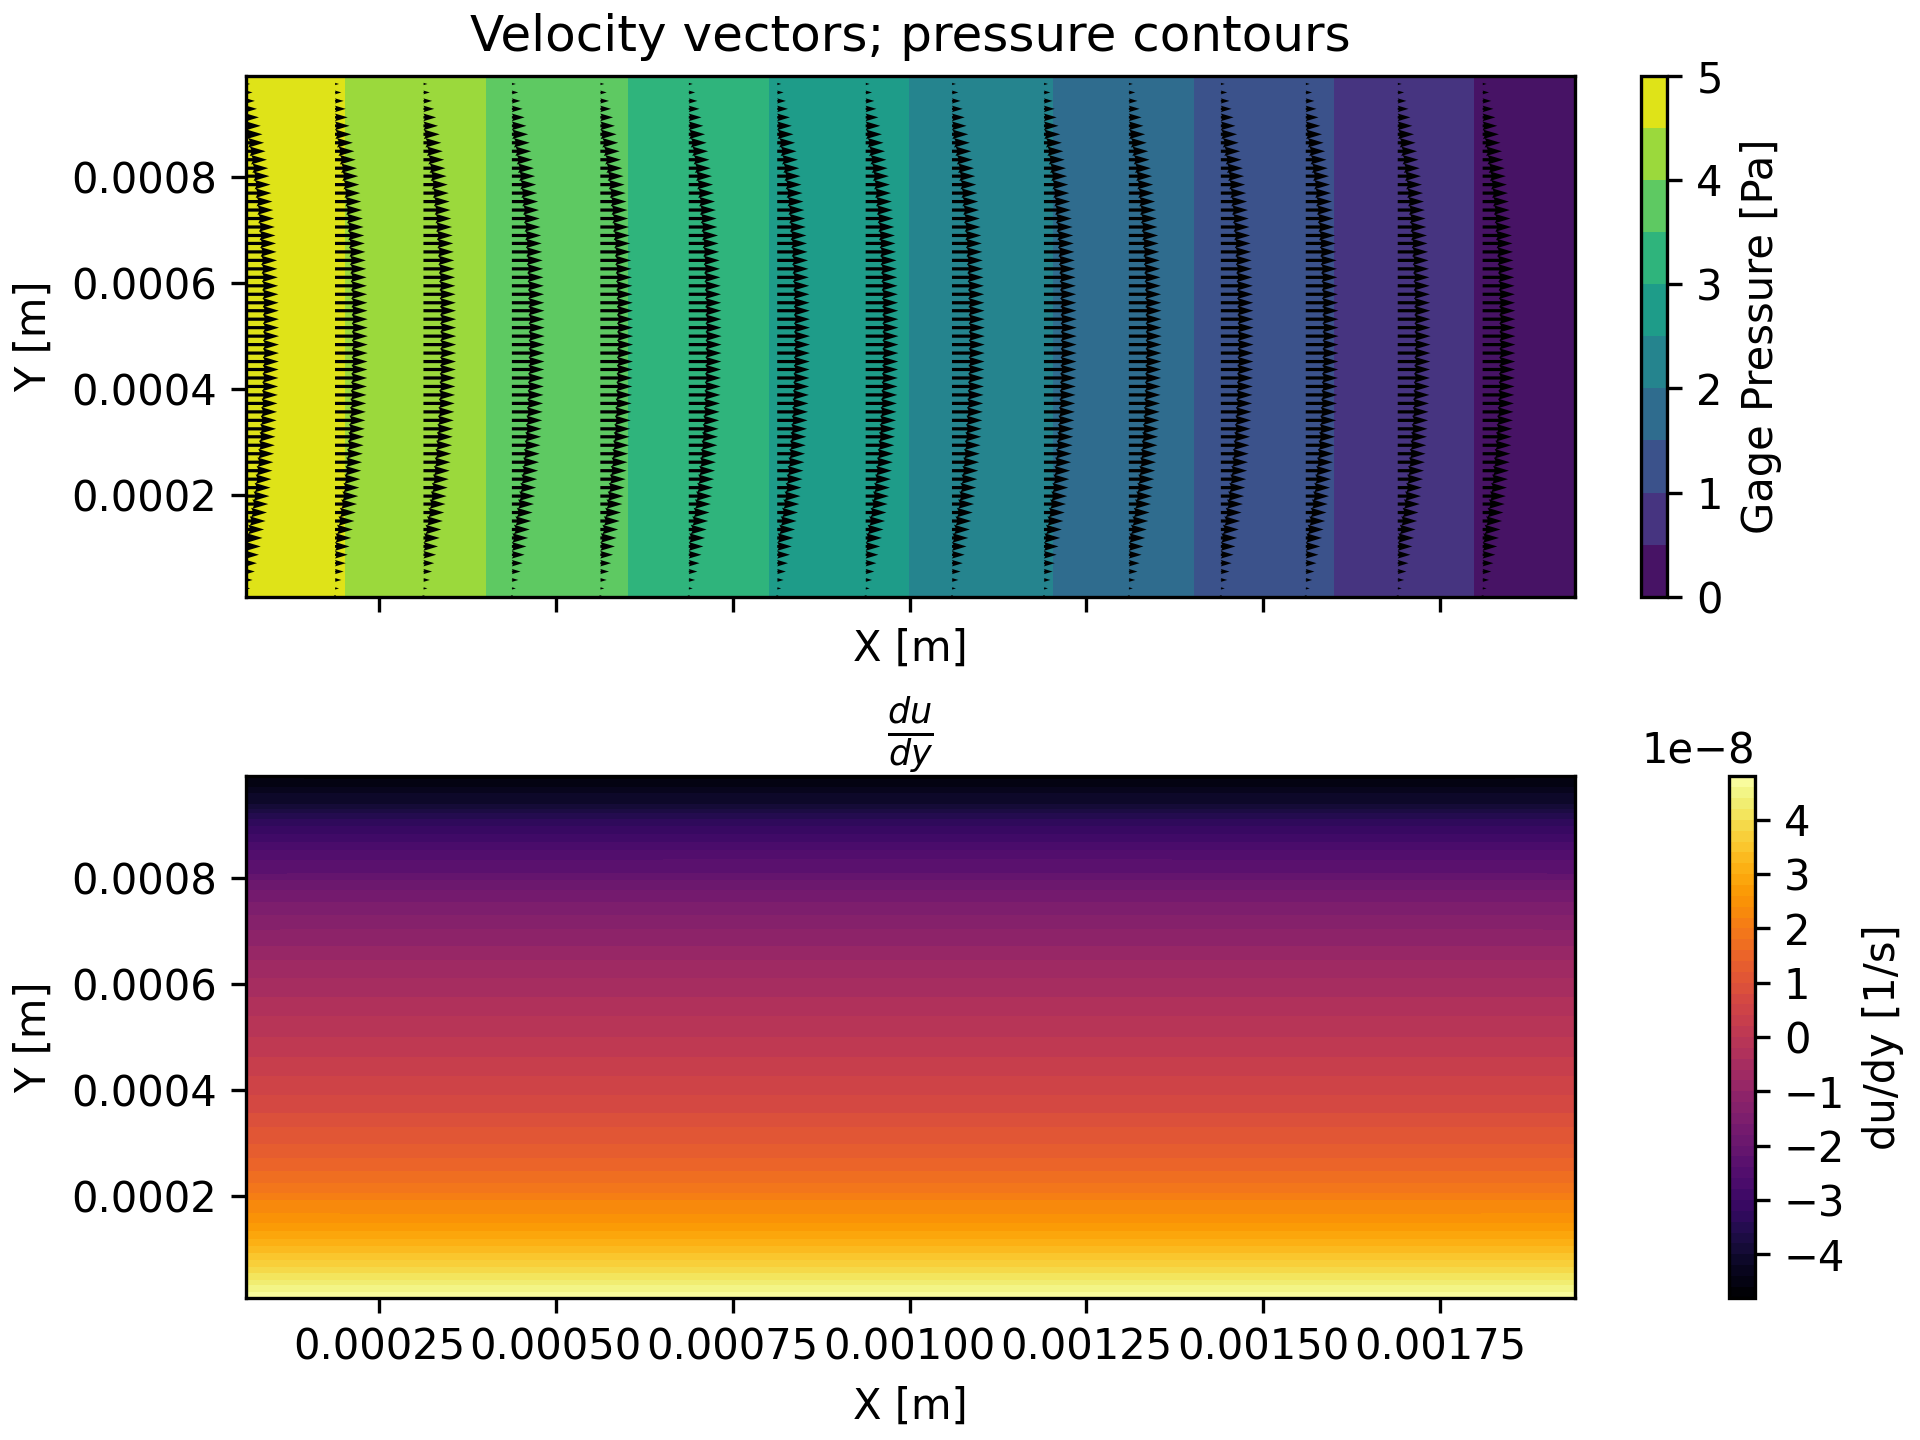
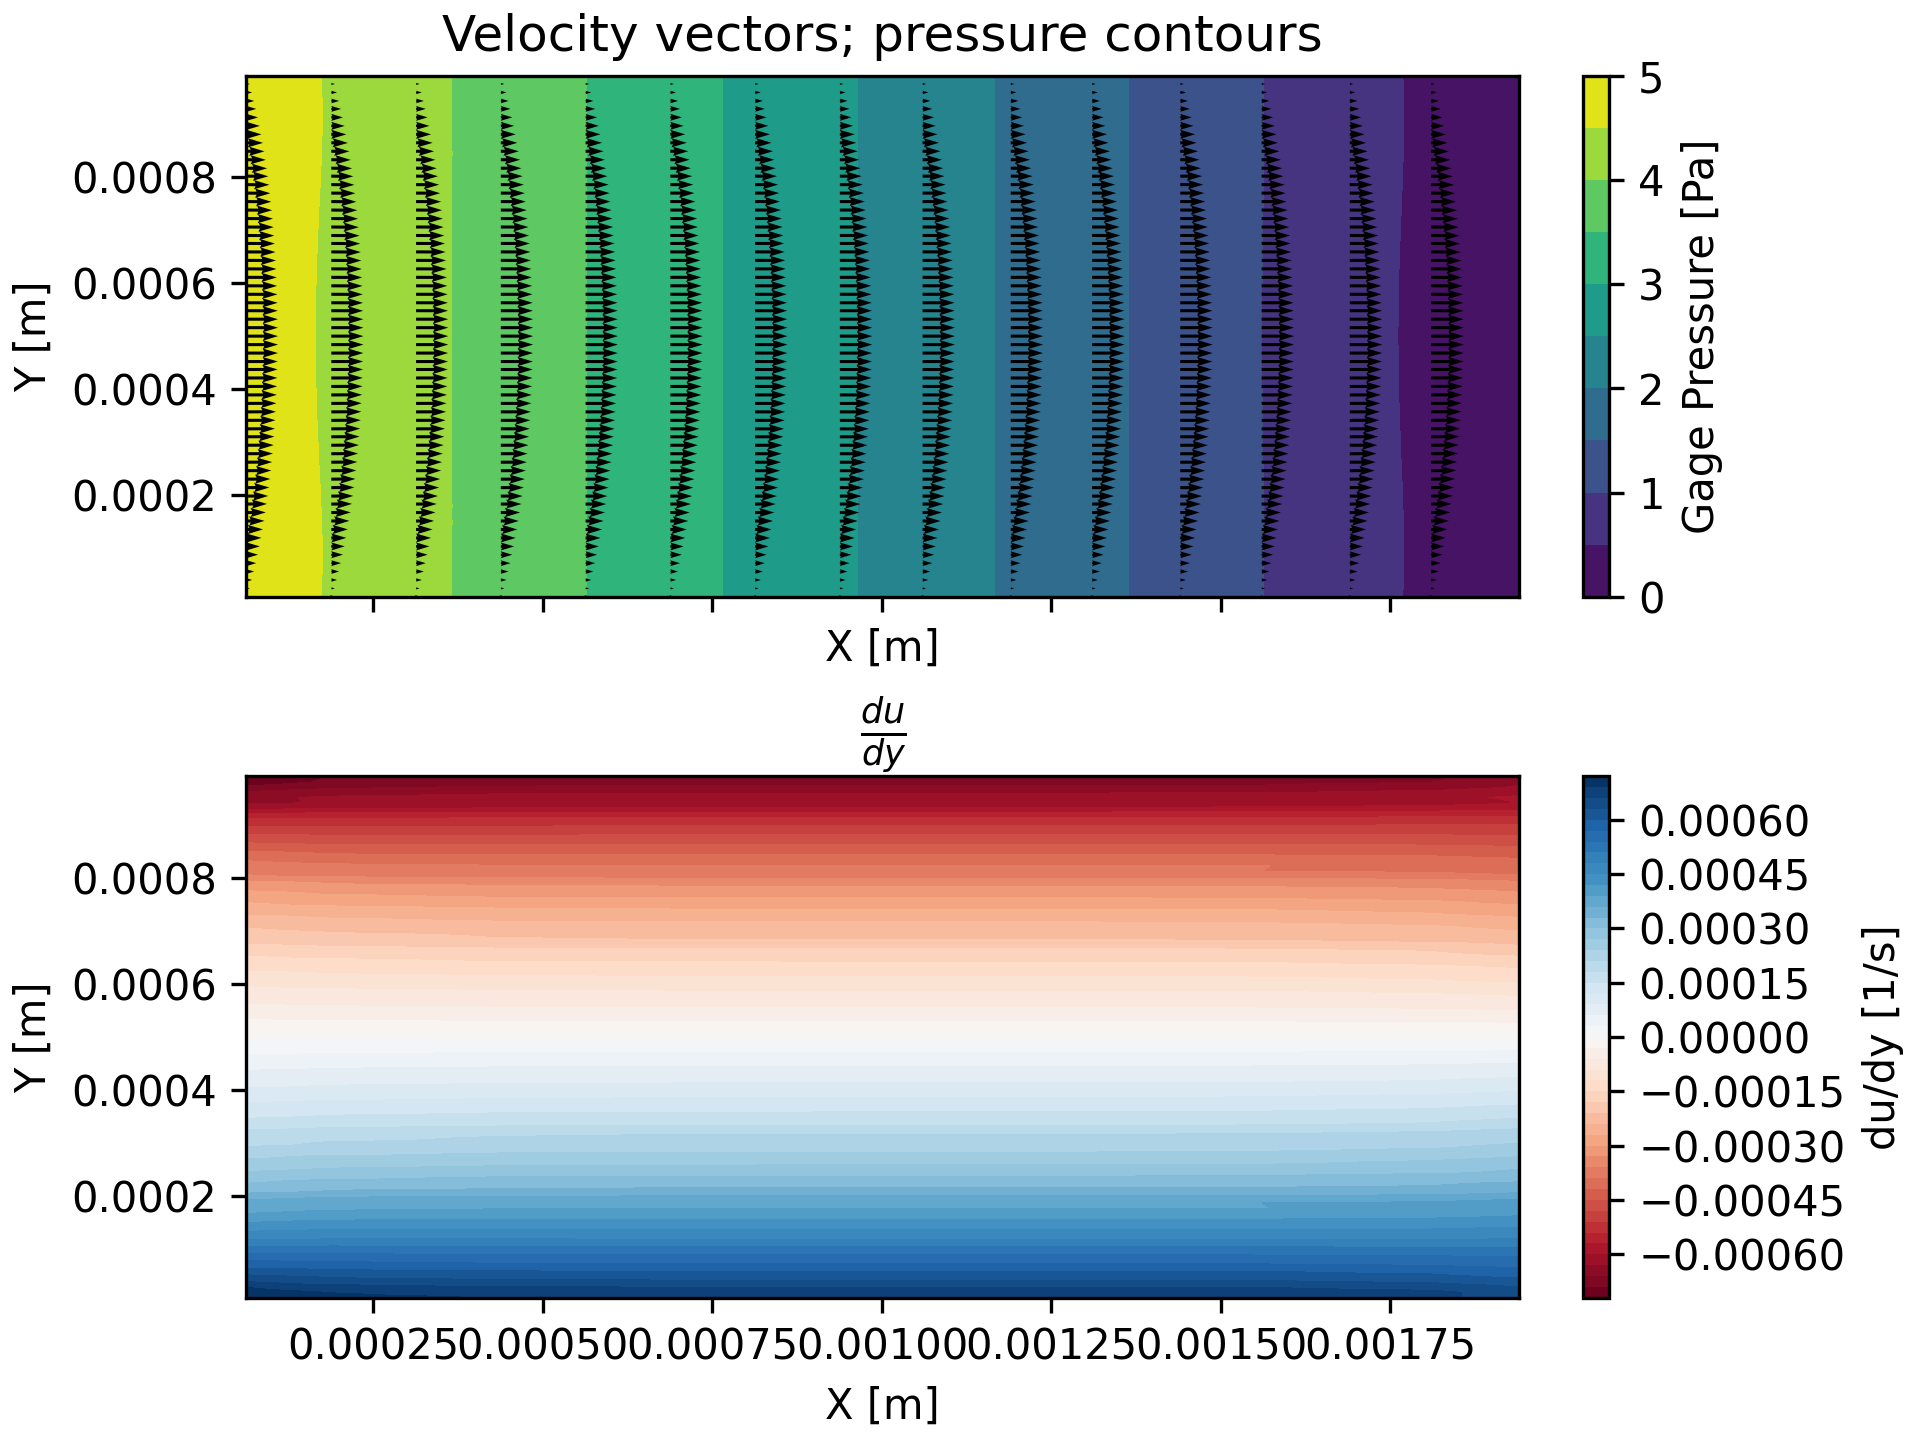
update plots; change Couette parameters

diff --git a/examples/plot_output.py b/examples/plot_output.py
@@ -4,7 +4,9 @@ import numpy as np
 import re
 
 
-def main():
+def plot_couette():
+    MU = 0.01
+
     FLOAT = "[\\d|\\.|e|\\-]+"
     VECTOR = f"\\(({FLOAT}),\\s+({FLOAT}),\\s+({FLOAT})\\)"
     datafile_pattern = re.compile(f"{VECTOR},\\s+{VECTOR},\\s+({FLOAT})")
@@ -15,43 +17,47 @@ def main():
             match = datafile_pattern.match(line)
             if match:
                 row_values.append([float(n) for n in match.groups()])
-    x, y, z, u, v, w, p = list(zip(*row_values))
+    x, y, _, u, v, _, p = list(zip(*row_values))
 
-    fig, axs = plt.subplots(nrows=2, layout="constrained", sharex=True, sharey=True)
 
     xi = np.linspace(min(x), max(x), 100)
     yi = np.linspace(min(y), max(y), 100)
     triang = tri.Triangulation(x, y)
     Xi, Yi = np.meshgrid(xi, yi)
 
+    # *** Figure 1 ***
+    fig, axs = plt.subplots(nrows=2, layout="constrained", sharex=True, sharey=True)
     p_interpolator = tri.LinearTriInterpolator(triang, p)
     p_interpolated = p_interpolator(Xi, Yi)
+    cm = axs[0].contourf(xi, yi, p_interpolated, levels=10)
+    fig.colorbar(cm, label="Gage Pressure [Pa]")
+    axs[0].quiver(x, y, u, v)
+    axs[0].set_title("Velocity vectors; pressure contours")
+    axs[0].set_xlabel("X [m]")
+    axs[0].set_ylabel("Y [m]")
 
     u_interpolator = tri.LinearTriInterpolator(triang, u)
     u_interpolated = u_interpolator(Xi, Yi)
-
     du_dy = np.gradient(u_interpolated, axis=0)
-
-    cm = axs[0].contourf(xi, yi, p_interpolated, levels=10)
-    fig.colorbar(cm, label="Gage Pressure [Pa]")
-
-    cm = axs[1].contourf(xi, yi, du_dy, cmap="inferno", levels=50)
-    fig.colorbar(cm, label="du/dy [1/s]")
-
-    axs[0].quiver(x, y, u, v)
-
-    axs[0].set_title("Velocity vectors; pressure contours")
+    cm = axs[1].contourf(xi, yi, du_dy, cmap="RdBu", levels=50)
     axs[1].set_title(r"$\frac{du}{dy}$")
-
-    axs[0].set_xlabel("X [m]")
     axs[1].set_xlabel("X [m]")
-    axs[0].set_ylabel("Y [m]")
     axs[1].set_ylabel("Y [m]")
+
+    fig.colorbar(cm, label="du/dy [1/s]")
     fig.savefig("./examples/couette.png", dpi=300)
-    # fig.text(0.04, 0.5, "Y [m]", ha="center", rotation="vertical")
+
+    # *** Figure 2 ***
+    fig, ax = plt.subplots()
+    fig.suptitle("Velocity profile vs analytical")
+    dp_dx = (np.min(p) - np.max(p))/(np.max(x) - np.min(x))
+    a = np.max(y) - np.min(y)
+    u_analytical = 1/(2*MU) * dp_dx * (yi**2 - a * yi)
+    ax.plot(yi, u_analytical)
+    ax.scatter(y, u)
 
     plt.show()
 
 
 if __name__ == "__main__":
-    main()
+    plot_couette()

diff --git a/src/main.rs b/src/main.rs
@@ -77,7 +77,7 @@ fn validate_solvers() {
     let b = DVector::from_column_slice(&vec![3.,2.,1.]);
     let mut x = DVector::from_column_slice(&vec![0.,0.,0.]);
 
-    iterative_solve(&a, &b, &mut x, 100, SolutionMethod::GaussSeidel, 0.5);
+    iterative_solve(&a, &b, &mut x, 100, SolutionMethod::GaussSeidel, 0.7);
 
     for row_num in 0..a.nrows() {
         assert!(
@@ -318,7 +318,6 @@ fn test_3d_3x3(iteration_count: Uint, momentum_relaxation: Float, pressure_relax
         // ));
         avg_velocity += cell_velocity;
     }
-    avg_velocity /= mesh.cells.len();
     // assert!(avg_velocity.approx_equals(
     //     &Vector {
     //         x: -7.54e-2,
@@ -330,7 +329,7 @@ fn test_3d_3x3(iteration_count: Uint, momentum_relaxation: Float, pressure_relax
     // write_data(&mesh, &u, &v, &w, &p, "./examples/3d_3x3.csv".into());
 }
 
-fn couette(iteration_count: Uint, momentum_relaxation: Float, pressure_relaxation: Float) {
+fn couette(iteration_count: Uint) {
     let mut mesh = orc::io::read_mesh("./examples/couette_flow.msh");
 
     mesh.get_face_zone("WALL").zone_type = FaceConditionTypes::Wall;
@@ -345,8 +344,8 @@ fn couette(iteration_count: Uint, momentum_relaxation: Float, pressure_relaxatio
     mesh.get_face_zone("PERIODIC_+Z").zone_type = FaceConditionTypes::Symmetry;
 
     let settings = NumericalSettings {
-        momentum_relaxation: 0.2,
-        pressure_relaxation: 0.2,
+        momentum_relaxation: 0.1,
+        pressure_relaxation: 0.1,
         matrix_solver_iterations: 1000,
         matrix_solver_relaxation: 0.1,
         pressure_interpolation: PressureInterpolation::SecondOrder,
@@ -358,7 +357,7 @@ fn couette(iteration_count: Uint, momentum_relaxation: Float, pressure_relaxatio
         &mut mesh,
         &settings,
         1000.,
-        100.,
+        0.01,
         iteration_count,
     );
     // V = U_top / 2 - a^2 / 12mu * dp/dx
@@ -383,7 +382,7 @@ fn main() {
     // test_3d_1x3(iteration_count, 0.8, 0.5);
     // test_3d_3x3(iteration_count, 1.0, 1.0);
     // test_3d();
-    couette(iteration_count, 0.2, 0.2);
+    couette(iteration_count);
 
     // Interface: allow user to choose from
     // 1. Read mesh

diff --git a/src/solver.rs b/src/solver.rs
@@ -14,6 +14,7 @@ const PARALLELIZE_U_V_W: bool = true;
 
 pub struct NumericalSettings {
     pub pressure_velocity_coupling: PressureVelocityCoupling,
+    // Setting to 1.0 seems to cause problems
     pub momentum: MomentumDiscretization,
     pub diffusion: DiffusionScheme,
     // LinearWeighted or SecondOrder recommended; LinearWeighted is more stable but less accurate
@@ -291,13 +292,16 @@ pub fn solve_steady(
                     &numerical_settings,
                 );
 
+                let u_avg = u.iter().sum::<Float>() / (cell_count as Float);
+                let v_avg = v.iter().sum::<Float>() / (cell_count as Float);
+                let w_avg = w.iter().sum::<Float>() / (cell_count as Float);
                 println!(
                     "Iteration {}: avg velocity = ({:.2e}, {:.2e}, {:.2e})",
-                    iter_number,
-                    u.iter().sum::<Float>() / (cell_count as Float),
-                    v.iter().sum::<Float>() / (cell_count as Float),
-                    w.iter().sum::<Float>() / (cell_count as Float),
+                    iter_number, u_avg, v_avg, w_avg,
                 );
+                if Float::is_nan(u_avg) || Float::is_nan(v_avg) || Float::is_nan(w_avg) {
+                    panic!("solution diverged");
+                }
             }
         }
         _ => panic!("unsupported pressure-velocity coupling"),
